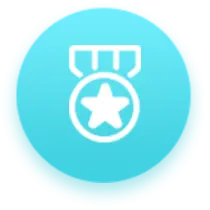
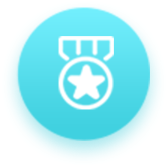
我的页面添加"公会中心"按钮 替换相关图片资源 调整item大小,间距

Changed region(s): [[0.0595, 0.0298, 0.9226, 0.8929], [0.3274, 0.2083, 0.6845, 0.6845]]

diff --git a/lib/ui/my/my_page_2.dart b/lib/ui/my/my_page_2.dart
@@ -85,6 +85,7 @@ class _MyPage2State extends State<MyPage2> with BusStateMixin {
       '我的装扮',
       '我的背包',
       '我的任务',
+      '公会中心'
       // '我的称号',
       // '首充礼包',
       // '邀请好友',
@@ -92,31 +93,32 @@ class _MyPage2State extends State<MyPage2> with BusStateMixin {
 
     Widget itemBuilder(String item) {
       Widget child = Column(
-        mainAxisAlignment: MainAxisAlignment.spaceEvenly,
+        mainAxisAlignment: MainAxisAlignment.start,
+        mainAxisSize: MainAxisSize.min,
         children: [
-          Image.asset(IMG.format('my/$item'), width: 70, height: 70, fit: BoxFit.contain, scale: 3),
+          const SizedBox(height: 12,),
+          Image.asset(IMG.format('my/$item'), width: 56, height: 56, fit: BoxFit.contain, scale: 3),
+          const SizedBox(height: 4,),
           XText(
             item,
-            style: const TextStyle(fontSize: 15, color: Colors.black),
+            style: const TextStyle(fontSize: 14, color: Colors.black,fontWeight: fw$Medium,height: 1),
           ),
         ],
       );
-
       child = InkWell(
         child: child,
         onTap: () => onItemClick(item),
       );
-
       return child;
     }
 
     return GridView(
-      padding: const Pad(vertical: 5,),
+      padding: const Pad(bottom: 10),
       shrinkWrap: true,
       physics: const NeverScrollableScrollPhysics(),
       gridDelegate: const SliverGridDelegateWithFixedCrossAxisCount(
         crossAxisCount: 4,
-        mainAxisExtent: 115,
+        mainAxisExtent: 86,
       ),
       children: items.map(itemBuilder).toList(growable: false),
     );
